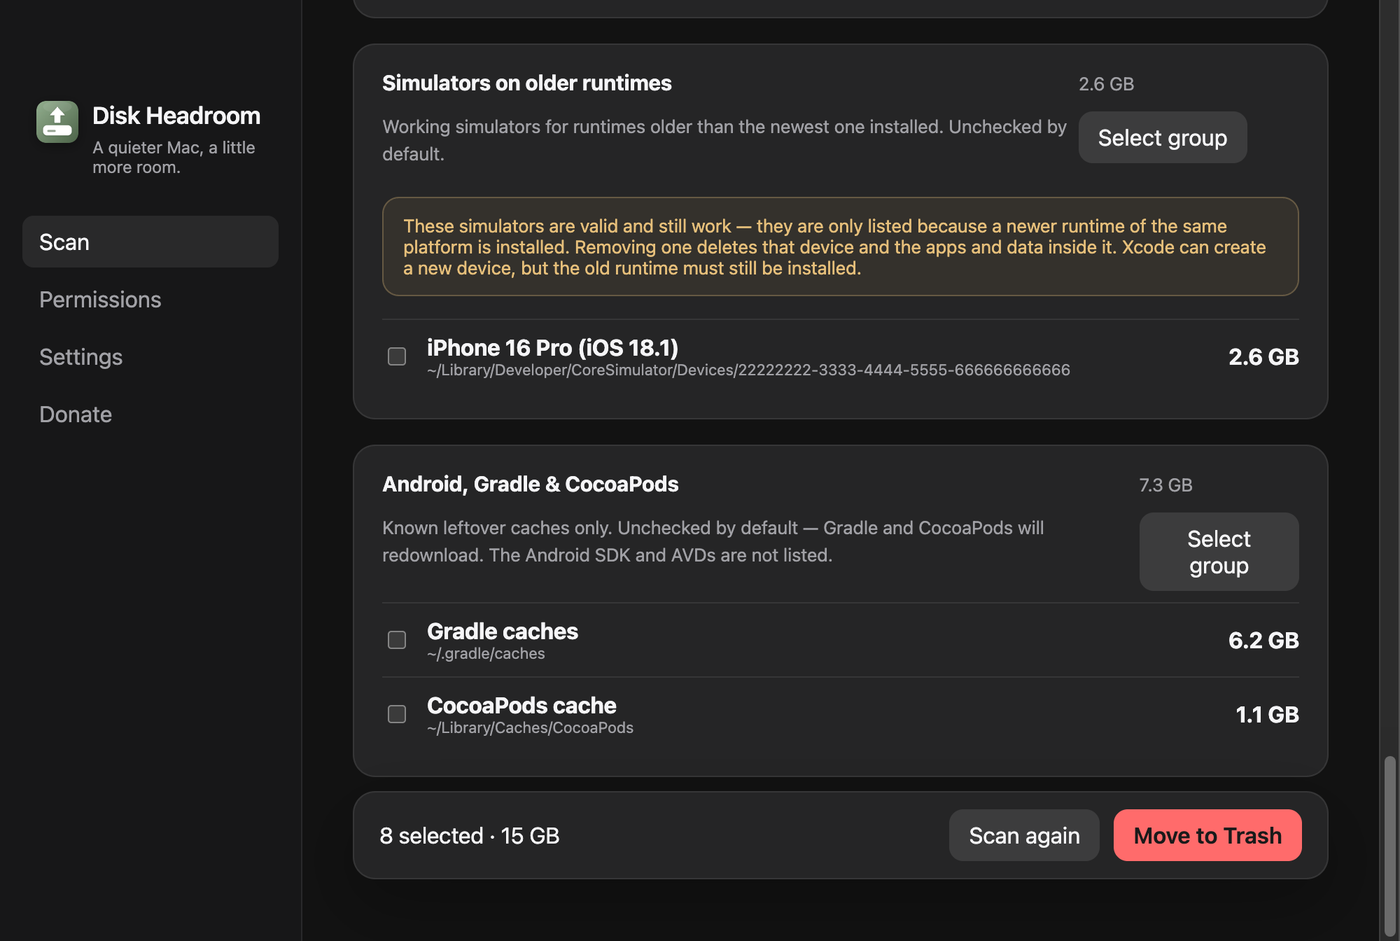
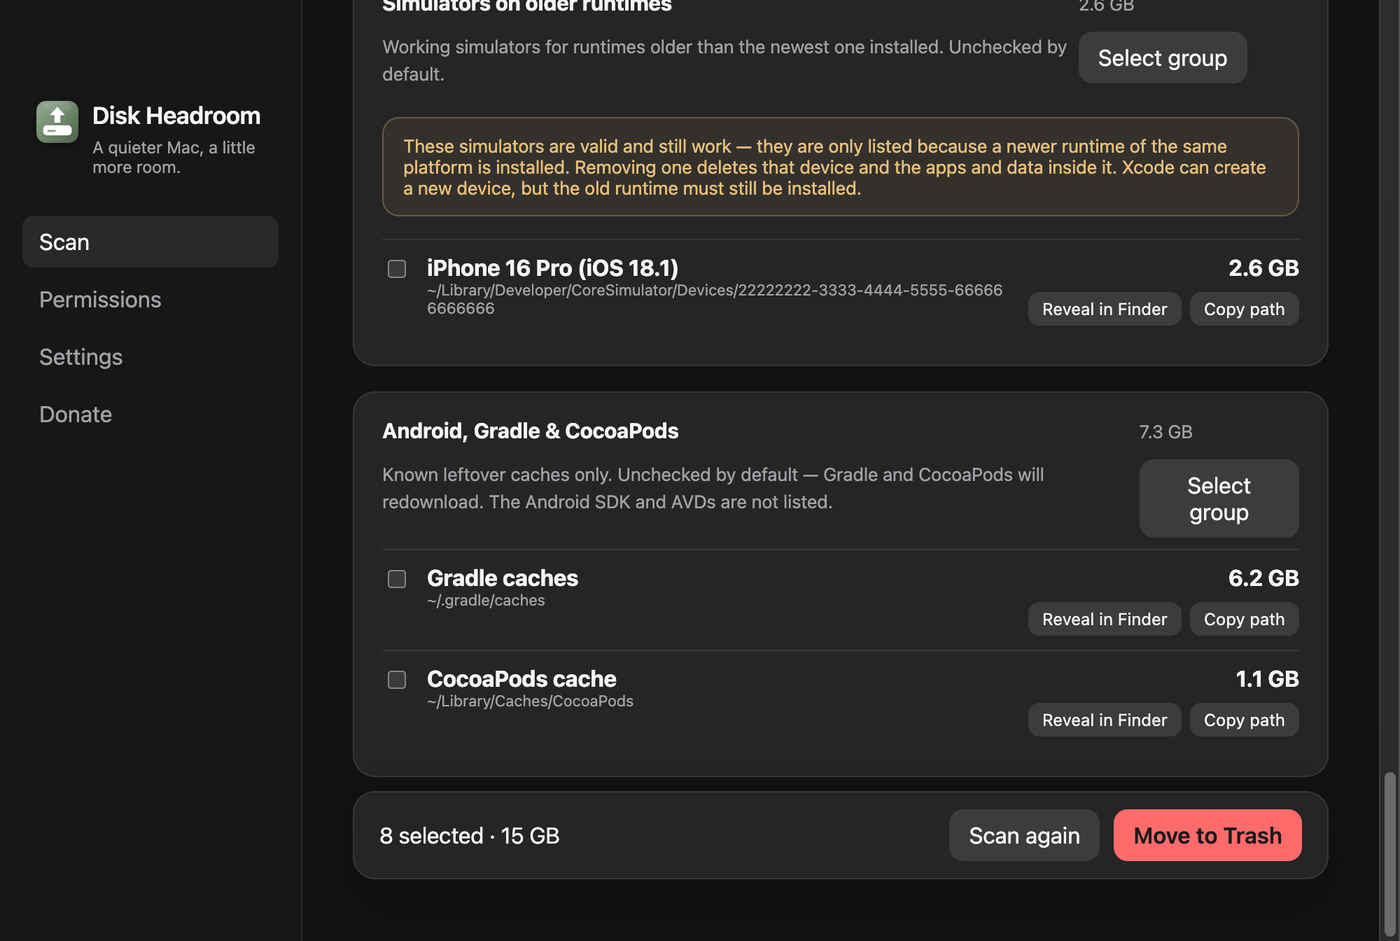
feat: reveal scan results in Finder and copy their paths
Users can inspect each listed path before trashing, while IPC only reveals items from the current scan.

diff --git a/src/renderer/src/App.tsx b/src/renderer/src/App.tsx
@@ -644,6 +644,64 @@ function DashboardView(props: {
   )
 }
 
+function ResultItemRow(props: {
+  t: Translator
+  locale: Locale
+  item: ScanItem
+  checked: boolean
+  onToggle: (item: ScanItem, value: boolean) => void
+}): JSX.Element {
+  const { t, item } = props
+  const [copied, setCopied] = useState(false)
+
+  async function copyPath(): Promise<void> {
+    await window.diskheadroom.copyText(item.path)
+    setCopied(true)
+    window.setTimeout(() => setCopied(false), 2000)
+  }
+
+  return (
+    <div className="item">
+      <label className="item-select">
+        <input
+          type="checkbox"
+          checked={props.checked}
+          onChange={(event) => props.onToggle(item, event.target.checked)}
+        />
+        <span>
+          <strong>{item.nameKey ? t(item.nameKey) : item.name}</strong>
+          <div className="path">{item.path}</div>
+          {(item.categoryId === 'unusedApps' || item.categoryId === 'idleUserFolders') && (
+            <div className="muted">
+              {t('results.lastUsed', {
+                date: item.lastUsedAt
+                  ? formatDate(item.lastUsedAt, props.locale)
+                  : t('results.never')
+              })}
+              {item.daysIdle !== null ? ` · ${t('results.idleDays', { days: item.daysIdle })}` : ''}
+            </div>
+          )}
+        </span>
+      </label>
+      <div className="item-side">
+        <strong>{formatBytes(item.bytes)}</strong>
+        <div className="item-actions">
+          <button
+            className="btn compact"
+            type="button"
+            onClick={() => void window.diskheadroom.revealItem(item.path)}
+          >
+            {t('results.reveal')}
+          </button>
+          <button className="btn compact" type="button" onClick={() => void copyPath()}>
+            {copied ? t('results.copied') : t('results.copy')}
+          </button>
+        </div>
+      </div>
+    </div>
+  )
+}
+
 function itemMatchesFilter(item: ScanItem, query: string, t: Translator): boolean {
   const needle = query.trim().toLowerCase()
   if (!needle) return true
@@ -742,30 +800,14 @@ function ResultsView(props: {
               .slice()
               .sort((a, b) => b.bytes - a.bytes)
               .map((item) => (
-                <label className="item" key={item.id}>
-                  <input
-                    type="checkbox"
-                    checked={Boolean(props.selected[item.id])}
-                    onChange={(event) => props.onToggle(item, event.target.checked)}
-                  />
-                  <span>
-                    <strong>{item.nameKey ? props.t(item.nameKey) : item.name}</strong>
-                    <div className="path">{item.path}</div>
-                    {(item.categoryId === 'unusedApps' || item.categoryId === 'idleUserFolders') && (
-                      <div className="muted">
-                        {props.t('results.lastUsed', {
-                          date: item.lastUsedAt
-                            ? formatDate(item.lastUsedAt, props.locale)
-                            : props.t('results.never')
-                        })}
-                        {item.daysIdle !== null
-                          ? ` · ${props.t('results.idleDays', { days: item.daysIdle })}`
-                          : ''}
-                      </div>
-                    )}
-                  </span>
-                  <strong>{formatBytes(item.bytes)}</strong>
-                </label>
+                <ResultItemRow
+                  key={item.id}
+                  t={props.t}
+                  locale={props.locale}
+                  item={item}
+                  checked={Boolean(props.selected[item.id])}
+                  onToggle={props.onToggle}
+                />
               ))}
           </div>
         )

diff --git a/tests/ipc.test.ts b/tests/ipc.test.ts
@@ -4,6 +4,7 @@ const mocks = vi.hoisted(() => ({
   handlers: new Map<string, (...args: unknown[]) => unknown>(),
   writeText: vi.fn(),
   openExternal: vi.fn(),
+  showItemInFolder: vi.fn(),
   getDiskInfo: vi.fn(),
   getPermissionStatus: vi.fn(),
   openFullDiskAccessSettings: vi.fn(),
@@ -23,7 +24,7 @@ vi.mock('electron', () => {
       mocks.handlers.set(channel, handler)
     }
     },
-    shell: { openExternal: mocks.openExternal }
+    shell: { openExternal: mocks.openExternal, showItemInFolder: mocks.showItemInFolder }
   }
   return { default: module, ...module }
 })
@@ -38,7 +39,10 @@ vi.mock('../src/main/settings', () => ({
   loadSettings: mocks.loadSettings,
   saveSettings: mocks.saveSettings
 }))
-vi.mock('../src/main/scanner', () => ({ runScan: mocks.runScan }))
+vi.mock('../src/main/scanner', async () => {
+  const actual = await vi.importActual<typeof import('../src/main/scanner')>('../src/main/scanner')
+  return { ...actual, runScan: mocks.runScan }
+})
 vi.mock('../src/main/cleaner', () => ({ trashPaths: mocks.trashPaths }))
 
 import { registerIpc } from '../src/main/ipc'
@@ -62,7 +66,7 @@ describe('IPC registration', () => {
     mocks.loadSettings.mockResolvedValue({ locale: 'en' })
 
     registerIpc({ sendToRenderer: vi.fn(), getTrayController: () => null })
-    expect(mocks.handlers.size).toBe(11)
+    expect(mocks.handlers.size).toBe(12)
     await expect(call('disk:info')).resolves.toEqual({ mount: '/' })
     await expect(call('permissions:status')).resolves.toEqual({ fullDiskAccess: true })
     expect(call('permissions:open-fda')).toBeUndefined()
@@ -122,5 +126,29 @@ describe('IPC registration', () => {
     await call('shell:open-external', 'https://github.com/nettonucci/diskheadroom')
     await call('shell:open-external', 'https://example.com')
     expect(mocks.openExternal).toHaveBeenCalledTimes(2)
+  })
+
+  it('reveals only paths from the current scan that pass the safety check', async () => {
+    mocks.runScan.mockResolvedValue({
+      items: [
+        { path: '/Users/test/Library/Caches/a', bytes: 10 },
+        { path: '/', bytes: 1 }
+      ],
+      scannedAt: '2025-01-01',
+      limited: false
+    })
+    registerIpc({ sendToRenderer: vi.fn(), getTrayController: () => null })
+
+    expect(call('shell:reveal-item', '/Users/test/Library/Caches/a')).toBe(false)
+    expect(mocks.showItemInFolder).not.toHaveBeenCalled()
+
+    await call('scan:run', 90)
+    expect(call('shell:reveal-item', '/Users/test/Library/Caches/a')).toBe(true)
+    expect(mocks.showItemInFolder).toHaveBeenCalledWith('/Users/test/Library/Caches/a')
+
+    expect(call('shell:reveal-item', '/etc/passwd')).toBe(false)
+    expect(call('shell:reveal-item', '/')).toBe(false)
+    expect(call('shell:reveal-item', 42)).toBe(false)
+    expect(mocks.showItemInFolder).toHaveBeenCalledTimes(1)
   })
 })

diff --git a/tests/App.test.tsx b/tests/App.test.tsx
@@ -72,6 +72,7 @@ function api(overrides: Partial<Api> = {}): Api {
     }),
     openExternal: vi.fn().mockResolvedValue(undefined),
     copyText: vi.fn().mockResolvedValue(undefined),
+    revealItem: vi.fn().mockResolvedValue(true),
     onScanProgress: vi.fn(() => () => {}),
     onTrayScan: vi.fn(() => () => {}),
     onTrayDonate: vi.fn(() => () => {}),
@@ -166,6 +167,22 @@ describe('App', () => {
 
     await user.click(screen.getByRole('button', { name: 'Scan again' }))
     await waitFor(() => expect(bridge.runScan).toHaveBeenCalledTimes(2))
+  })
+
+  it('reveals a result in Finder and copies its path with feedback', async () => {
+    const bridge = api()
+    window.diskheadroom = bridge
+    const user = userEvent.setup()
+    render(<App />)
+    await user.click(await screen.findByRole('button', { name: 'Scan this Mac' }))
+    expect(await screen.findByText('Cache A')).toBeInTheDocument()
+
+    await user.click(screen.getAllByRole('button', { name: 'Reveal in Finder' })[0])
+    expect(bridge.revealItem).toHaveBeenCalledWith('/Users/test/Library/Caches/a')
+
+    await user.click(screen.getAllByRole('button', { name: 'Copy path' })[1])
+    expect(bridge.copyText).toHaveBeenCalledWith('/Applications/Old App.app')
+    expect(await screen.findByText('Path copied')).toBeInTheDocument()
   })
 
   it('filters results by name or path and only selects visible group items', async () => {

diff --git a/src/main/ipc.ts b/src/main/ipc.ts
@@ -9,7 +9,7 @@ import {
   openFullDiskAccessSettings,
   revealGrantTarget
 } from './permissions'
-import { runScan } from './scanner'
+import { isSafePath, runScan } from './scanner'
 import { loadSettings, saveSettings } from './settings'
 import type { TrayController } from './tray'
 
@@ -48,6 +48,13 @@ export function registerIpc(options: IpcOptions): void {
   })
   ipcMain.handle('shell:copy-text', (_event, text: string) => {
     clipboard.writeText(text)
+  })
+  ipcMain.handle('shell:reveal-item', (_event, itemPath: unknown) => {
+    if (typeof itemPath !== 'string' || !lastItems.has(itemPath) || !isSafePath(itemPath)) {
+      return false
+    }
+    shell.showItemInFolder(itemPath)
+    return true
   })
   ipcMain.handle('shell:open-external', (_event, url: string) => {
     if (url === SPONSORS_URL || url.startsWith('https://github.com/')) {

diff --git a/src/renderer/src/styles.css b/src/renderer/src/styles.css
@@ -375,11 +375,42 @@ input {
 
 .item {
   display: grid;
-  grid-template-columns: auto 1fr auto;
+  grid-template-columns: 1fr auto;
   gap: 12px;
-  align-items: center;
+  align-items: start;
   padding: 10px 0;
   border-top: 1px solid var(--line);
+}
+
+.item-select {
+  display: grid;
+  grid-template-columns: auto 1fr;
+  gap: 12px;
+  align-items: start;
+}
+
+.item-select input {
+  margin-top: 4px;
+}
+
+.item-side {
+  display: flex;
+  flex-direction: column;
+  align-items: flex-end;
+  gap: 8px;
+}
+
+.item-actions {
+  display: flex;
+  flex-wrap: wrap;
+  gap: 6px;
+  justify-content: flex-end;
+}
+
+.btn.compact {
+  padding: 5px 10px;
+  font-size: 12px;
+  border-radius: 8px;
 }
 
 .path {

diff --git a/src/preload/index.ts b/src/preload/index.ts
@@ -25,6 +25,7 @@ const api = {
     ipcRenderer.invoke('clean:trash', request),
   openExternal: (url: string): Promise<void> => ipcRenderer.invoke('shell:open-external', url),
   copyText: (text: string): Promise<void> => ipcRenderer.invoke('shell:copy-text', text),
+  revealItem: (path: string): Promise<boolean> => ipcRenderer.invoke('shell:reveal-item', path),
   onScanProgress: (callback: (progress: ScanProgress) => void): (() => void) => {
     const listener = (_event: Electron.IpcRendererEvent, progress: ScanProgress): void => {
       callback(progress)

diff --git a/release-notes/2026-08-31-reveal-copiar-caminho/post.md b/release-notes/2026-08-31-reveal-copiar-caminho/post.md
@@ -1,0 +1,40 @@
+# Mostrar no Finder e copiar caminho
+
+- **Data:** 2026-08-31
+- **Commit / PR:** (preencher no merge)
+- **Tipo:** feat
+- **Público:** quem quer conferir o caminho real antes de mandar para a Lixeira
+- **Formato sugerido no Instagram:** único (screenshot de resultados com os botões na linha)
+
+## O que mudou
+
+- Cada item dos resultados ganhou **Mostrar no Finder** e **Copiar caminho**.
+- O Finder abre com aquele arquivo ou pasta selecionado.
+- Copiar coloca o caminho absoluto na área de transferência, com feedback curto (“Caminho copiado”).
+- O app só revela caminhos que saíram do scan atual — o renderer não consegue pedir um caminho qualquer.
+
+## Por que importa
+
+Antes de ir para a Lixeira, dá para abrir o item no Finder ou colar o path e confirmar que é mesmo aquilo.
+
+## Legenda pronta (PT-BR)
+
+O scan listou um cache. Você quer ter certeza de que é aquele mesmo.
+
+Agora cada item tem Mostrar no Finder e Copiar caminho.
+
+Abre no Finder. Cola o path. Confere. Só então marca e manda para a Lixeira.
+
+Revisão manual. Nada some sozinho.
+
+#DiskHeadroom #macOS #Finder #UX #SSD #OpenSource #MacApps #Produtividade
+
+## Hashtags
+
+`#DiskHeadroom` `#macOS` `#Finder` `#UX` `#SSD` `#OpenSource` `#MacApps` `#Produtividade`
+
+## Imagens
+
+1. Tela de resultados com Mostrar no Finder e Copiar caminho em cada linha
+
+![Resultados com botões Mostrar no Finder e Copiar caminho em cada item de cache](imagens/results.png)

diff --git a/release-notes/README.md b/release-notes/README.md
@@ -14,3 +14,4 @@ Pacotes prontos para postar. Cada pasta tem um `post.md` com dados, legenda e im
 | 2026-08-31 | Documents e Desktop antigos e grandes | [2026-08-31-documents-desktop](./2026-08-31-documents-desktop/post.md) |
 | 2026-08-31 | Filtro por nome ou caminho nos resultados | [2026-08-31-filtro-resultados](./2026-08-31-filtro-resultados/post.md) |
 | 2026-08-31 | Diálogo de confirmação dentro do app | [2026-08-31-dialogo-confirmacao](./2026-08-31-dialogo-confirmacao/post.md) |
+| 2026-08-31 | Mostrar no Finder e copiar caminho | [2026-08-31-reveal-copiar-caminho](./2026-08-31-reveal-copiar-caminho/post.md) |
